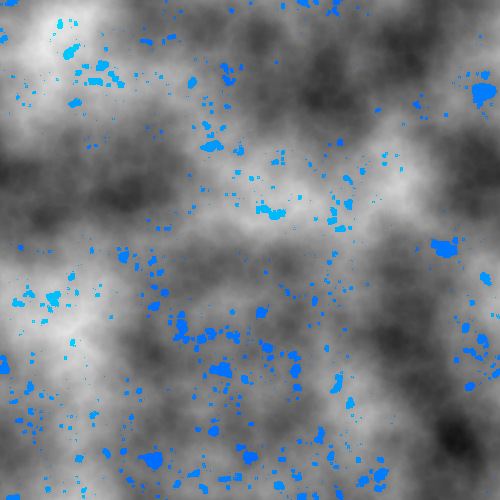
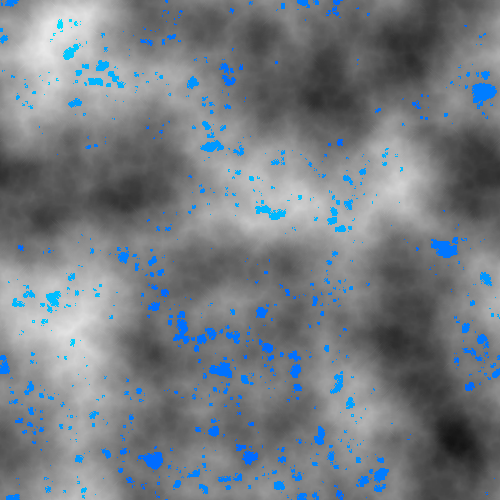
Erosion and Lakes v1 is done

diff --git a/src/main.rs b/src/main.rs
@@ -1,7 +1,7 @@
 use ::image::Rgb;
 use itertools::Itertools;
 use rand::prelude::*;
-use rand_pcg::Pcg64;
+use rand_chacha::ChaCha20Rng;
 use rayon::prelude::*;
 use std::cmp::Ordering::*;
 use std::collections::HashSet;
@@ -29,7 +29,8 @@ struct Perlin {
 
 impl Perlin {
     fn new(octaves: u8, scale: u8, seed: u64) -> Perlin {
-        let mut rng = Pcg64::seed_from_u64(seed);
+        let mut rng = ChaCha20Rng::seed_from_u64(seed);
+        dbg!(rng.gen::<u8>());
         let mut vectors = Vec::with_capacity(octaves as usize);
         for i in 0..octaves {
             let grid_size = scale as usize * 2usize.pow(i as u32);
@@ -153,25 +154,32 @@ fn gradient(greyscale: &Grid<f64>, colors: &Vec<(f64, (u8, u8, u8))>) -> Grid<(u
 struct FlowState {
     dir: (i64, i64),
     flow: f64,
+    is_lake: bool,
 }
 
-fn compute_water_flows(height_map: &Grid<f64>) -> Grid<FlowState> {
+fn compute_water_flows(height_map: &Grid<Lake>) -> Grid<FlowState> {
     let mut indices: Vec<(usize, usize)> = height_map.iter_indices().collect();
-    indices.sort_unstable_by(|a, b| height_map[*b].partial_cmp(&height_map[*a]).unwrap_or(Equal));
+    indices.sort_unstable_by(|a, b| {
+        height_map[*b]
+            .height
+            .partial_cmp(&height_map[*a].height)
+            .unwrap_or(Equal)
+    });
 
     let mut flow = height_map.copy_dimensions(FlowState {
         dir: (0, 0),
         flow: 0.0,
+        is_lake: false,
     });
 
     for index in indices {
         let mut outgoing_flow = 0.0;
-        let current_height = height_map[index];
+        let current_height = height_map[index].height;
         let mut min_height = current_height;
         let mut min_dir = (0, 0);
 
         for offset in NEIGHBOR_OFFSETS.iter() {
-            let target_height = *height_map.get_wrapping(shift_index(index, *offset));
+            let target_height = height_map.get_wrapping(shift_index(index, *offset)).height;
             let target_flow = flow.get_wrapping(shift_index(index, *offset));
             if target_height < min_height {
                 min_height = target_height;
@@ -188,6 +196,7 @@ fn compute_water_flows(height_map: &Grid<f64>) -> Grid<FlowState> {
         flow[index] = FlowState {
             dir: min_dir,
             flow: outgoing_flow,
+            is_lake: height_map[index].is_lake,
         };
     }
 
@@ -318,8 +327,8 @@ fn label_lakes(lakes: &mut Grid<Lake>) -> u16 {
                         queue.push_back(neighbor_index);
                     }
                 } else if lakes[neighbor_index].height < out_candidate_height {
-                    out_candidate_height = dbg!(lakes[neighbor_index].height);
-                    outputs[lake_id as usize] = dbg!(neighbor_index);
+                    out_candidate_height = lakes[neighbor_index].height;
+                    outputs[lake_id as usize] = neighbor_index;
                 }
             }
         }
@@ -338,7 +347,7 @@ fn draw_lake_labels(labels: &Grid<Lake>, seed: u64) -> Grid<(u8, u8, u8)> {
         if labels[i].lake_id == 0 {
             *v = (0, 0, 0)
         } else {
-            let mut rng = Pcg64::seed_from_u64(seed + labels[i].lake_id as u64);
+            let mut rng = ChaCha20Rng::seed_from_u64(seed + labels[i].lake_id as u64);
             *v = (
                 rng.gen_range(0..255),
                 rng.gen_range(0..255),
@@ -352,7 +361,7 @@ fn draw_lake_labels(labels: &Grid<Lake>, seed: u64) -> Grid<(u8, u8, u8)> {
         .map(|lake| (lake.lake_id, lake.lake_out))
         .unique()
         .for_each(|(id, out)| {
-            let mut rng = Pcg64::seed_from_u64(seed + id as u64);
+            let mut rng = ChaCha20Rng::seed_from_u64(seed + id as u64);
             res[out] = (
                 255 - rng.gen_range(0..255),
                 255 - rng.gen_range(0..255),
@@ -378,8 +387,8 @@ fn erode(height_map: &Grid<f64>, flows: &Grid<FlowState>, scale: f64) -> Grid<f6
                 * (height_map[idx] - height_map.get_wrapping(shift_index(idx, flow.dir)))
                 / offset_length(flow.dir);
             *v -= 0.5 * flow.flow.powf(0.8) * slope.powf(2.0);
-        } else if flow.dir == (0, 0) {
-            *v += height_diff;
+        } else if flow.dir == (0, 0) || flow.is_lake {
+            *v += height_diff / 2.0;
         } else {
             *v += height_diff / (1.0 + E.powf(flow.flow - 6.0));
         }
@@ -391,7 +400,8 @@ fn erode_loop(height_map: &Grid<f64>, iterations: u64) -> Grid<f64> {
     let mut eroded = height_map.clone();
     for i in 0..iterations {
         dbg!(i);
-        let flows = compute_water_flows(&eroded);
+        let (lakes, _) = compute_lakes(&eroded);
+        let flows = compute_water_flows(&lakes);
         eroded = erode(&eroded, &flows, 25.0);
     }
     eroded
@@ -416,7 +426,11 @@ fn overlay_rivers(
             .zip(background.iter())
             .zip(height_map.iter())
             .map(|((flow, original), height)| {
-                let percent = (flow.flow / max_flow).powf(0.3);
+                let percent = if flow.is_lake {
+                    0.8
+                } else {
+                    (flow.flow / max_flow).powf(0.2)
+                };
                 if *height < sea_level {
                     *original
                 } else {
@@ -441,20 +455,20 @@ macro_rules! time {
 }
 
 fn main() {
-    let p = Perlin::new(7, 4, 1337);
+    let p = Perlin::new(7, 2, 3);
     let height_map = time!("perlin", p.render_to(500));
     let terrain_gradient = vec![
-        (0.3, (9, 9, 121)),
-        (0.3999, (31, 192, 207)),
-        (0.4, (231, 222, 31)),
-        (0.41, (167, 218, 48)),
-        (0.6, (31, 171, 69)),
-        (0.8, (145, 125, 46)),
+        (0.5, (9, 9, 121)),
+        (0.6, (31, 192, 207)),
+        (0.6001, (231, 222, 31)),
+        (0.61, (167, 218, 48)),
+        (0.8, (31, 171, 69)),
+        (0.9, (145, 125, 46)),
         (1.0, (255, 255, 255)),
     ];
 
     let eroded = erode_loop(&height_map, 1);
-    let flows = compute_water_flows(&eroded);
+    let flows = compute_water_flows(&compute_lakes(&eroded).0);
     let relief = compute_relief(&eroded, vec3_normalized([2.0, 2.0, 4.0]), 25.0);
     let color = overlay(
         &gradient(&height_map, &terrain_gradient),
@@ -467,17 +481,11 @@ fn main() {
             )
         },
     );
-    let map = overlay_rivers(&color, &eroded, 0.4, &flows);
+    let map = overlay_rivers(&color, &eroded, 0.6, &flows);
 
-    let (mut lakes, _) = compute_lakes(&eroded);
-
-    to_rgb_image(&lakes)
-        .save("lakes.png")
-        .expect("lakes.png failed to save");
-
-    to_rgb_image(&draw_lake_labels(&lakes, 1338))
-        .save("lake_labels.png")
-        .expect("lake_labels.png failed to save")
+    to_rgb_image(&map)
+        .save("final.png")
+        .expect("final.png failed to save")
 }
 
 #[cfg(test)]
@@ -490,8 +498,8 @@ mod test {
     fn compare_goldens() {
         let root = PathBuf::from(env!("CARGO_MANIFEST_DIR"));
 
-        let p = Perlin::new(7, 4, 1337);
-        let height_map = p.render_to(500);
+        let p = Perlin::new(7, 2, 4);
+        let height_map = p.render_to(2000);
         let relief_map = compute_relief(&height_map, vec3_normalized([2.0, 2.0, 4.0]), 25.0);
         let height_image = to_gray_image(&height_map);
         let relief_image = to_gray_image(&relief_map);
